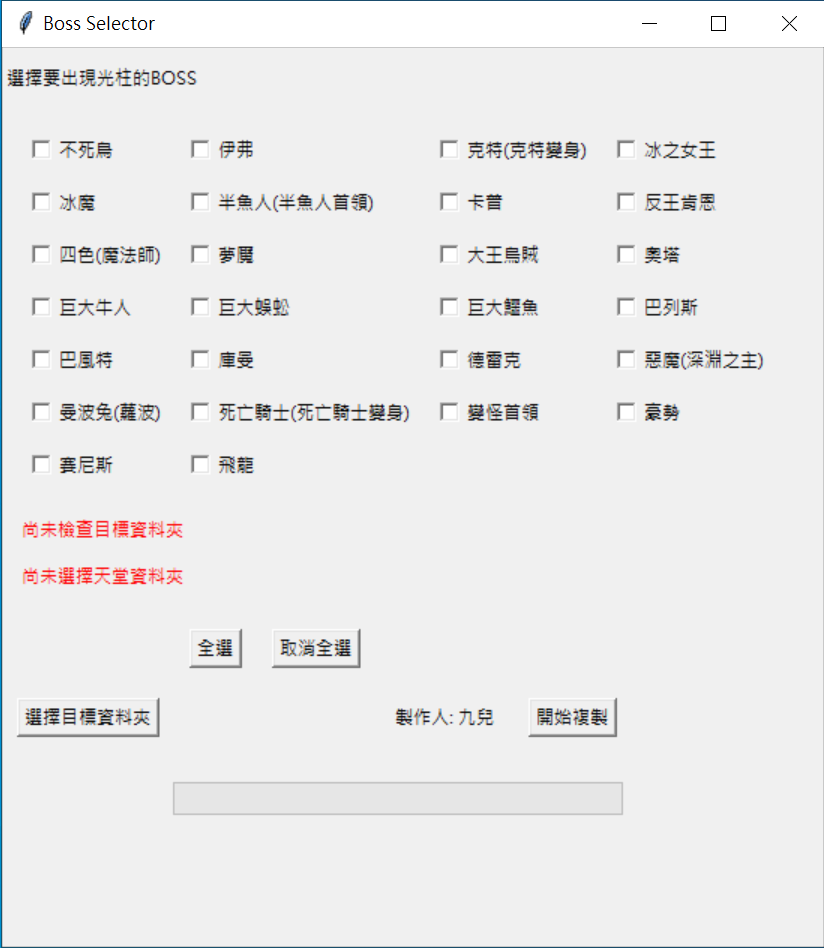
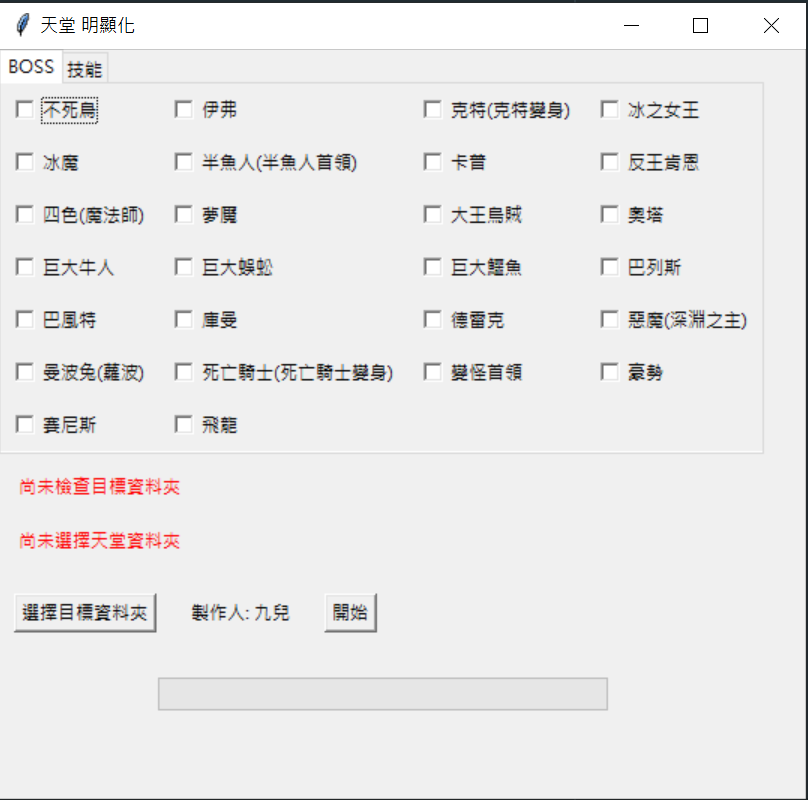
add

diff --git a/ui_elements.py b/ui_elements.py
@@ -40,10 +40,10 @@ def create_buttons(app):
 
     tk.Button(button_frame, text="選擇目標資料夾", command=app.choose_target_folder).grid(row=2, column=0, padx=10,
                                                                                           pady=10)
-    tk.Button(button_frame, text="全選", command=lambda event=True: app.select_all(event)).grid(row=1, column=1,
-                                                                                                padx=10, pady=10)
-    tk.Button(button_frame, text="取消全選", command=lambda event=False: app.select_all(event)).grid(row=1, column=2,
-                                                                                                     padx=10, pady=10)
+    # tk.Button(button_frame, text="全選", command=lambda event=True: app.select_all(event)).grid(row=1, column=1,
+    #                                                                                             padx=10, pady=10)
+    # tk.Button(button_frame, text="取消全選", command=lambda event=False: app.select_all(event)).grid(row=1, column=2,
+    #                                                                                                  padx=10, pady=10)
     tk.Label(button_frame, text="製作人: 九兒").grid(row=2, column=3, padx=10, pady=10, sticky=tk.W)
     tk.Button(button_frame, text="開始", command=app.copy_selected).grid(row=2, column=4, padx=10, pady=10)
 

diff --git a/file_operations.py b/file_operations.py
@@ -33,4 +33,10 @@ def copy_files_to_sprite(app, selected_bosses, selected_skills):
                     shutil.copy2(s, d)
                     app.progress["value"] += 1
                     app.root.update_idletasks()
+                if item.endswith('.SPR'):
+                    s = os.path.join(src, item)
+                    d = os.path.join(str(app.target_dir) + '\\sprite', item)
+                    shutil.copy2(s, d)
+                    app.progress["value"] += 1
+                    app.root.update_idletasks()
     return total_files

diff --git a/boss_selector.py b/boss_selector.py
@@ -80,8 +80,8 @@ class BossSelectorApp:
             var.set(event)
 
     def adjust_window_size(self):
-        initial_width = 800
-        initial_height = 600
+        initial_width = 400
+        initial_height = 500
         total_rows = (len(self.bosses) + 3) // 4
         new_height = max(initial_height, total_rows * 30 + 150)
         new_width = max(initial_width, self.root.winfo_reqwidth() + 20)

diff --git a/README.md b/README.md
@@ -5,7 +5,7 @@ BOSS明顯化是一款便於管理和顯化BOSS文件的工具。使用者可以
 
 ## Demo
 
-<img src="img/BOSS.png" alt="img" width="400">
+<img src="img/boss.PNG" alt="img" width="400"><img src="img/skill.PNG" alt="img" width="400">
 
 ## 功能
 - 選擇目標資料夾
@@ -28,7 +28,7 @@ BOSS明顯化是一款便於管理和顯化BOSS文件的工具。使用者可以
 
 ## 未來功能
 我們計劃在未來版本中增加以下功能：
-- [ ] 技能明顯化
+- [x] 技能明顯化
 
 請注意，功能更新速度會較慢，敬請期待。
 
